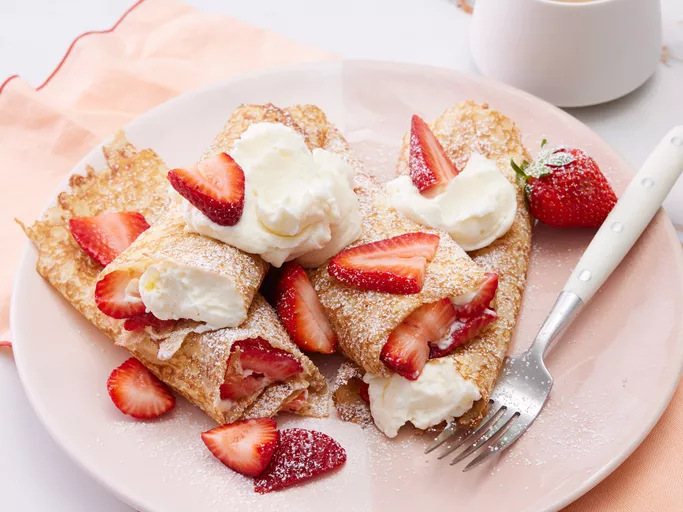
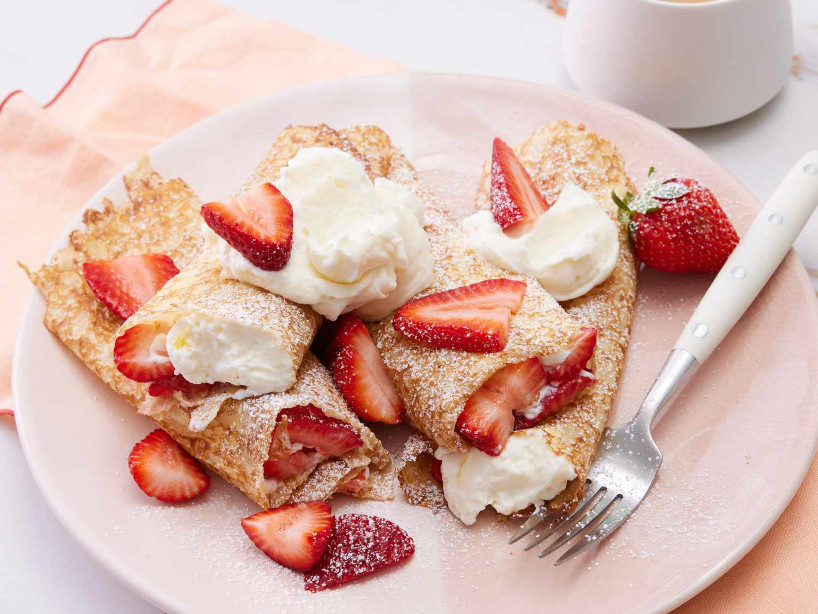
edit size of imgages and add potato wedges recipe

diff --git a/recipes/creamy_strawberry_crepes.html b/recipes/creamy_strawberry_crepes.html
@@ -11,15 +11,52 @@
     alt="a plate of Crepes filled with whipped cream an stawberrys,
     toped with powdered sugar and more stawberries and cream,
     severed on a pink plate with a fork. (Photo by 
-    Dotdash Meredith Food Studios)" width="415" height="311">
+    Dotdash Meredith Food Studios)" width="818" height="614">
 
-    <p>These are light and delicious crepes filled with whipped cream 
+    <p><h2>Description</h2></p>
+
+       <p>These are light and delicious crepes filled with whipped cream 
         and fresh strawberries. 
         The crepes are folded and topped with extra whipped cream, 
         sliced strawberries, and a dusting of powdered sugar.</p>
+
+    <p><h2>Ingredients</h2></p>
+        <p><ul>
+            <li>¾ up all-purpose flour</li>
+            <li>½ cup milk</li>
+            <li>½ cup water</li>
+            <li>3 eggs</li>
+            <li>3 tablespoons of melted butter</li>
+            <li>½ teaspoon salt</li>
+            <1i>¼ cups sifted confectioners' sugar</1i>
+            <1i>1 (8 ounce) package cream cheese, softened</1i>
+            <li>1 tablespoon lemon juice</li>
+            <li>1 teaspoon lemon zest</li>
+            <li>½ teaspoon vanilla extract</li>
+            <li>1 cup heavy cream, whipped</li>
+            <li>4 cups sliced strawberries</li>
+        </ul></p>
+
+<p><h2>Steps</h2></p>
+<p><ol>
+    <li>Gather all ingredients.</li>
+    <li>Place flour, milk, water, eggs, melted butter, 
+    and salt into a blender; blend until smooth and set aside.</li>
+    <li>Beat confectioners' sugar, cream cheese, lemon juice, 
+    lemon zest, and vanilla with an electric mixer 
+    in a large bowl until smooth.</li>
+    <li>Gently fold in whipped cream.</li>
+    <li>Heat a lightly oiled griddle or non-stick skillet over medium heat.
+    Pour or scoop batter onto the griddle, using approximately 2 
+    tablespoons for each crepe.</li>
+    <li>Tip and rotate the pan to spread batter as thinly as possible.</li>
+    <li>Flip over when batter is set and edges begin to brown. 
+    Continue cooking until bottom begins to brown. Stack finished crepes on a plate; 
+    cover with a damp towel.</li>
+    <li>Fill each crepe with 1/4 cup sliced strawberries and 1/3 cup cream cheese filling.</li>
+    <li>Roll up and top with a dollop of cream cheese filling and more sliced strawberries.</li>
+</ol></p>
+
 </body>
-
-
-
 
 </html>
